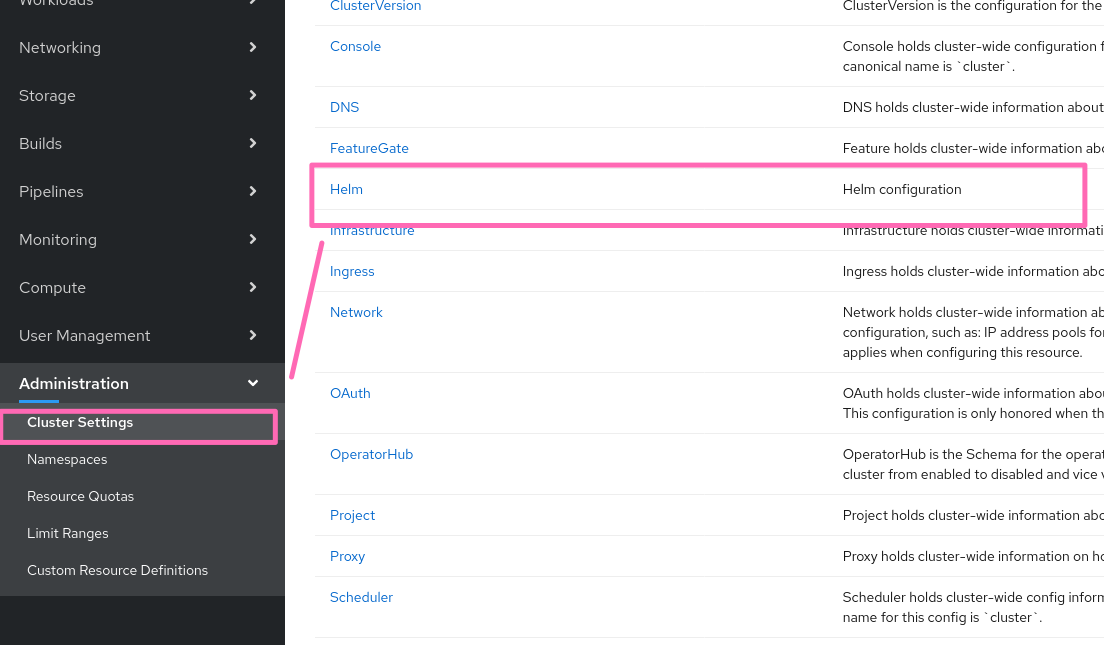
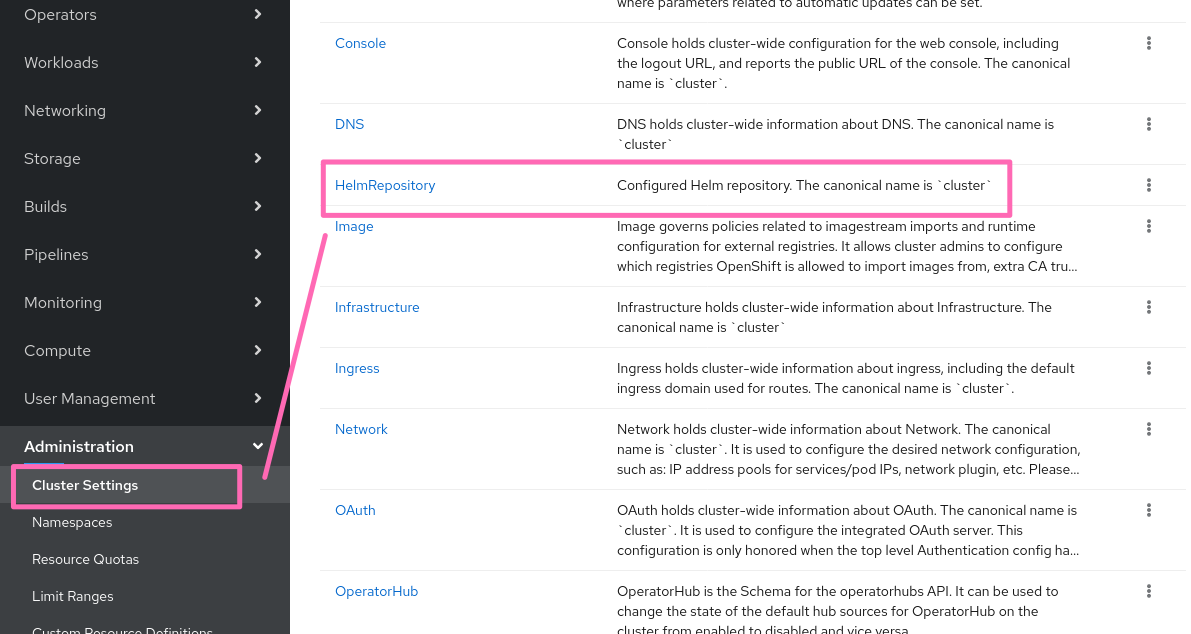
introduced HelmRepository CR

diff --git a/enhancements/helm3/console.md b/enhancements/helm3/console.md
@@ -92,20 +92,18 @@ disabled: true
 ```
 
 Due to future federated usecases ([ODC-2994](https://issues.redhat.com/browse/ODC-2994))), a cluster admin should be able to declare multiple chart repositories.
-Such list could be embedded (cluster-wide, top-level `Helm` resource)[https://github.com/openshift/api/tree/master/config/v1]:
+
+A cluster-scoped, top-level `HelmRepository` resource)[https://github.com/openshift/api/tree/master/config/v1] should be added:
 
 ```yaml
 apiVersion: config.openshift.io/v1
-kind: Helm
+kind: HelmRepository
 metadata:
   name: cluster
 spec:
-  chartRepositories:
-    - url: http://my.chart-repo.org/stable
-      displayName: myChartRepo
-      description: my private chart repo
-
-
+  url: http://my.chart-repo.org/stable
+  displayName: myChartRepo
+  description: my private chart repo
 ```
 
 The console operator would watch for changes on it and reconfigure the chart repository proxy. The console backend already implements a few helm endpoints (including the chart proxy), but the future might require to extract them into a separate service (e.g. to make openshift more modular). Hence, it would be good to define the configuration as the top-level resource detaching API from the implementation. Cluster admin would easily discover the new resource and manage it either via CLI or through UI. 
